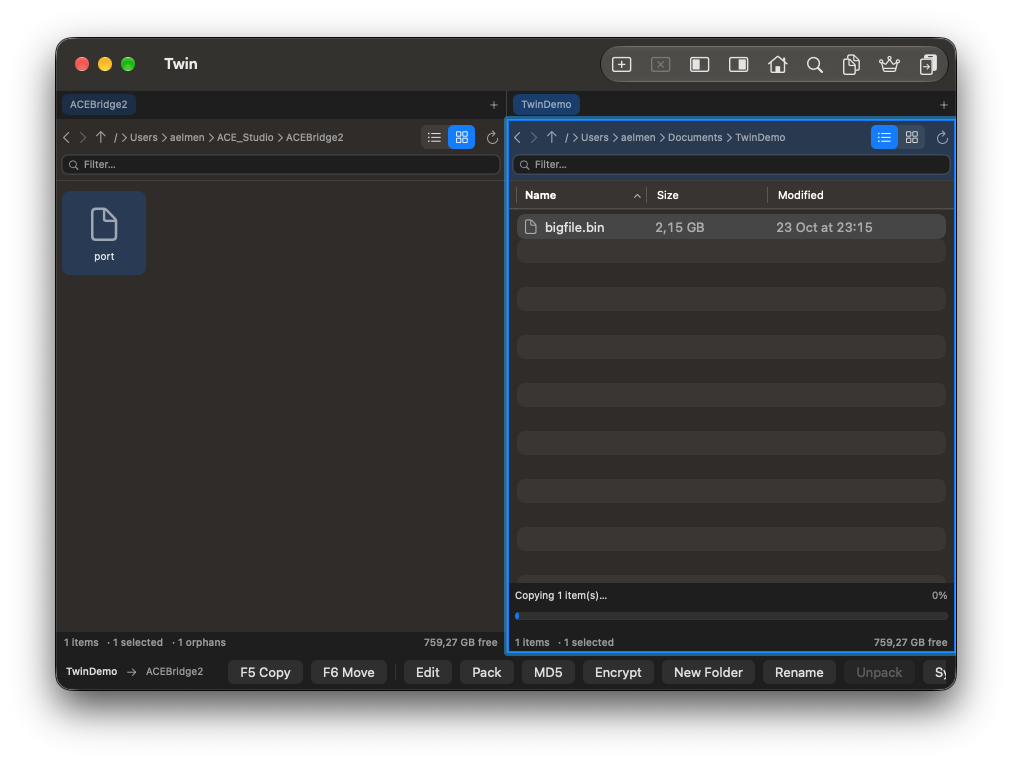
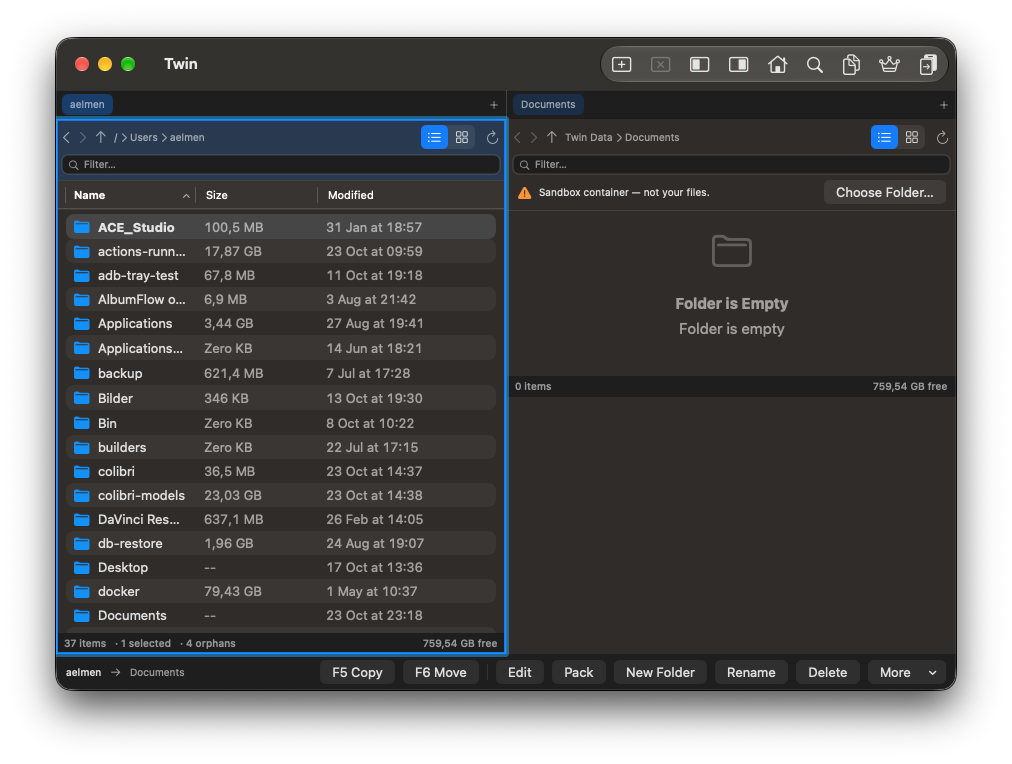
docs: LeadUX screenshot review (15 findings) + refreshed 02 capture
UX-Review.md gains the 2026-10-23 section reviewing the four real
captures against UX-Spec.md (4 P0, 7 P1, 4 P2, each with file/symbol).
02-copy-progress.png recaptured from the fixed build: real F5 keypress,
filename label, Cancel button, all folder sizes resolved.

diff --git a/Docs/UX-Review.md b/Docs/UX-Review.md
@@ -54,24 +54,195 @@ Table-vy med sorterbara kolumner, statusrad, sök-tomt-tillstånd, Cmd+F till
 filtret, konfliktrapport i stället för tyst överskrivning, starkare
 aktivmarkering och borttagen sökvägsredundans.
 
-## Skärmbild från användaren 2026-10-23 — nya fynd
+## Skärmbildsgranskning 2026-10-23 — fyra riktiga captures mot UX-Spec.md
 
-Användarens capture av körande app bekräftade och utökade granskningen:
+Underlag: `Docs/screenshots/01-dual-pane.png`, `02-copy-progress.png`,
+`03-icon-view.png`, `04-search.png`, jämförda rad för rad mot
+`Docs/UX-Spec.md` (aktiv panel = accentram + header, oberoende
+navigation/markering/view-mode per panel, drop-highlight, operation =
+etikett + procent + linjär progress i panelens fot, keyboard-first med
+F5/F6/Tab/Cmd+1/Cmd+2/Cmd+F). Tidigare kodfynd ovan står kvar; detta är
+det som syns — och inte syns — i körande app. Prioritet: P0 = fel fil/
+fel mål risk eller kärnflöde blockerat, P1 = daglig friktion, P2 = puts.
 
-- **Layoutkollaps (kritiskt, nu åtgärdat):** allt innehåll låg i ett band
-  i fönstrets mitt med stora tomma ytor över/under. Orsak:
-  `NavigationStack` inuti `HSplitView`. Borttaget; panelerna fyller nu
-  hela fönstret och mappnamnet läcker inte längre som fönstertitel ("Data").
-- **"View"-texten radbröts vertikalt** ("V/ie/w") i view-väljaren.
-  Åtgärdat med `labelsHidden`.
-- **"Try Again" på tom mapp** var meningslöst — visas nu bara vid fel.
-- **Textpiller i verktygsraden** ersatta med ikon+text (Label/systembilder).
-- Datumformatet förkortat.
-- Fortfarande öppet: appen startar i sandbox-containerns Data-mapp
-  (`~/Library/Containers/se.dvisious.twin/Data`) eftersom sandlådan pekar
-  hemkatalogen dit. För en filhanterare krävs en medveten startpunkt —
-  förslagsvis senaste bokmärkta mappen, annars en välj-mapp-uppmaning.
-  Spåras på #9.
+### P0 — åtgärda före nästa testrunda
+
+1. **Kopieringen går inte att avbryta och säger nästan ingenting
+   (02).** Panelens fot visar bara `Copying 1 item(s)… 0%` för en fil
+   på 2,15 GB: ingen filnamnsetikett, inga kopierade bytes/total,
+   ingen hastighet/ETA och — värst — ingen Cancel-knapp. Vid 0 %
+   går det inte att skilja "arbetar" från "har hängt sig".
+   Ändra: namnge filen (`Copying bigfile.bin — 340 MB of 2,15 GB ·
+   82 MB/s · ~20 s left`), lägg till en synlig Cancel-knapp som
+   avbryter pågående operation, och behåll linjär progress enligt
+   spec. Filer: `Sources/TwinApp/Features/DualPane/PaneView.swift`
+   (`progressBar`), `Sources/TwinApp/Features/DualPane/PaneViewModel.swift`
+   (`performFileOperation`, `operationProgress`/`operationLabel` —
+   byt från enbart `Double`-procent till bytes/hastighet + avbrytbar
+   `Task`), bakomliggande loop i TwinCore anropas därifrån.
+2. **Funktionsraden ryms inte — åtgärder försvinner utanför fönstret
+   (01, 02, 03, 04).** Vid fönstrets minimibredd klipps raden mitt i
+   `Sync` (`Sy…`/`S` i 02/04); Batch Rename, Workspaces, Permissions,
+   Assistant och Delete ligger dolda i en horisontell scroll utan
+   synlig scrollindikator eller "»"-affordance. En TC-användare ser
+   aldrig Delete. Ändra: låt raden krympa i fast prioritetsordning
+   (F5/F6/Edit/New Folder/Rename/Delete alltid synliga, övrigt under
+   en explicit `More`-meny), sluta scrolla tyst, och höj vid behov
+   minimibredden. Filer: `Sources/TwinApp/Features/DualPane/DualPaneView.swift`
+   (`functionBar`, `ScrollView(.horizontal)` tas bort),
+   `Sources/TwinApp/TwinApp.swift` (`minWidth: 900`).
+3. **Knapparna lovar F5/F6 men tangenterna gör ingenting (01–04).**
+   Specen medger själv att SwiftUI saknar F5/F6 och att Cmd+5/Cmd+6
+   är ersättningen — men knapptexten säger fortsatt `F5 Copy`/
+   `F6 Move`. För en keyboard-first-produkt vars förebild är Total
+   Commander är det ett brutet kärnlöfte: användaren trycker F5,
+   inget händer, förtroendet dör. Ändra: antingen riktig
+   AppKit-`keyDown`-hantering för F5/F6 (behåll då texterna), eller
+   byt texterna till `⌘5 Copy`/`⌘6 Move` överallt tills F-tangenterna
+   fungerar — aldrig text och genväg som motsäger varandra.
+   Filer: `Sources/TwinApp/Features/DualPane/DualPaneView.swift`
+   (`functionBar`, toolbar, `.keyboardShortcut("5"/"6")`),
+   `Sources/TwinApp/Features/DualPane/PaneView.swift` (befintliga
+   `onKeyPress`-hanterare är mönstret att bygga vidare på).
+4. **Markeringen syns inte — men F5/F6 verkar på den (01, 03).**
+   Statusraden påstår `1 selected`, men i 01 går den markerade raden
+   knappt att urskilja mot växelskuggningen, och i ikonvyn (03,
+   vänster panel) syns ingen markering alls trots att panelen är
+   aktiv med blå ram. Användaren kan kopiera/flytta fel fil utan att
+   kunna verifiera valet. Ändra: full accentfärgad markeringsbakgrund
+   + fetstil i listvyn, samma tydliga markering (ram + toning +
+   check vid flerval) i ikonvyn, och låt inaktiv panels markering
+   tonas ned så aktiv markering alltid vinner visuellt.
+   Filer: `Sources/TwinApp/Features/DualPane/PaneView.swift`
+   (`listView`-radbakgrund, `iconView`-cellernas
+   `selection.contains`-bakgrund 0.2 → tydligare behandling).
+
+### P1 — daglig friktion
+
+5. **Storlekskolumnen är död för mappar (01, 04).** Varje mapp visar
+   `...`/`--`; kolumnen går formellt att sortera på men sorterar på
+   värden användaren aldrig ser, och inför en kopiering går det inte
+   att bedöma datamängd. Ändra: visa beräknad mappstorlek när den är
+   klar (redan påbörjat via `directorySizes`), visa `—` endast för
+   skyddade mappar med hjälptext som förklarar varför, och sortera
+   osorterbara mappar sist i stället för på `size = 0`.
+   Filer: `Sources/TwinApp/Features/DualPane/PaneViewModel.swift`
+   (`directorySizeText`, `computeDirectorySizes`),
+   `Sources/TwinApp/Features/DualPane/PaneView.swift` (`listView`,
+   Size-kolumnen), `Sources/TwinApp/Shared/SizeFormatting.swift`.
+6. **Namn trunkeras till oigenkännlighet (01, 03, 04).** `Archive -
+   Ma…`, `REAPER Me…`, två `Applications…` som inte går att skilja
+   åt; ingen typ-/ändelsekolumn och ingen fullständig sökväg som
+   hjälptext i listan. Ändra: bredare Name-kolumn med mitten-trunkering
+   (`Archive - Ma…ster.zip`), lägg till Type/Ext-kolumn, och sätt
+   `.help(item.url.path)` på radtexten. I ikonvyn: tillåt 2 rader
+   konsekvent (finns) men lägg till filändelse för filer.
+   Filer: `Sources/TwinApp/Features/DualPane/PaneView.swift`
+   (`listView`, `iconView`), `Sources/TwinApp/Shared/FileItemIcon.swift`.
+7. **Filtret döljer sammanhanget (04).** `Code` ger 2 träffar, men
+   statusraden säger `2 items` som om mappen krympt — inget `2 of 22`,
+   ingen träffmarkering i namnen, och inget som säger att filtret bara
+   gäller aktuell mapp (inte rekursiv sök). Ändra: status `2 of 22
+   items · filter: "Code"`, fetmarkera träffsubstringen i raden, och
+   byt placeholder/toolbar-etikett till samma begrepp överallt
+   (i dag: "Filter…" i fältet, "Filter" i toolbaren, "Instant search"
+   i specen — välj ett ord). Filer:
+   `Sources/TwinApp/Features/Search/PaneSearch.swift`
+   (`PaneSearchField`, `filter`), `Sources/TwinApp/Features/DualPane/PaneView.swift`
+   (`statusBar` — räkna mot `viewModel.items.count`, inte bara
+   `filteredItems.count`), `Sources/TwinApp/Features/DualPane/PaneViewModel.swift`
+   (`filteredItems`).
+8. **Ikonvyn är en återvändsgränd för tangentbordsanvändare (03).**
+   Inga storlekar/datum, ingen synlig sortering, piltangentsnavigering
+   osynlig/oklar, enkelklick *togglar* markering (avviker från listvyns
+   och Finders ersätt-markering; dubbelklick riskerar att först
+   avmarkera), nedersta raden klipps mitt i ikonerna utan
+   scrollindikator, och alla objekt är samma blå mapp eller grå
+   dokumentikon — inga riktiga filikoner/miniatyrer. Ändra:
+   enkelklick = ersätt markering (Cmd-klick = toggla, som i listvyn),
+   synlig fokusring vid piltangenter, storlek/datum som caption under
+   namnet, riktiga `NSWorkspace`-ikoner/miniatyrer i stället för
+   SF-symboler. Filer: `Sources/TwinApp/Features/DualPane/PaneView.swift`
+   (`iconView`, `iconColumns`), `Sources/TwinApp/Shared/FileItemIcon.swift`
+   (enda ikonkomponenten — `folder.fill`/`doc` räcker inte).
+9. **Övre toolbar: åtta kryptiska ikoner utan etiketter (01–04).**
+   `+`, `⨯`, två panelikoner, hem, sök, kopiera, krona, urklipp —
+   gissningslek, och F5 Copy finns dessutom dubbelt (toolbar +
+   funktionsrad). Kronan (Pro-upsell) tar permanent plats i primära
+   verktygsraden. Ändra: behåll ikoner men ge dem textetikett under/
+   bredvid vid breda fönster (som specens wireframe antyder),
+   ta bort dubbleringen av F5/F6 (funktionsraden äger dem), och
+   flytta Pro till menyn/statusytan. Verifiera hjälptexter
+   (`.help` finns i kod men ersätter inte synliga etiketter för
+   förstagångsanvändare). Fil:
+   `Sources/TwinApp/Features/DualPane/DualPaneView.swift` (`toolbar`).
+10. **Tomma spökrader fyller listorna (02, 04).** Växelskuggade tomma
+    rader under sista filen ser ut som saknade/osynliga filer — i 02
+    sju tomma rader under `bigfile.bin`. Ändra: låt tabellen sluta vid
+    sista raden (fast radhöjd utan filler-rader) eller gör den nedre
+    ytan neutral utan radmönster. Fil:
+    `Sources/TwinApp/Features/DualPane/PaneView.swift` (`listView`,
+    `Table`-stilen).
+11. **Statusraden talar utvecklarspråk (01, 03, 04).** `· 1 orphans`
+    (även grammatiskt fel: "1 orphans") utan förklaring i vyn,
+    `759,27 GB free` duplicerat identiskt i båda panelerna trots
+    samma volym, och ingen total storlek för markeringen — det
+    enda tal som betyder något före F5. Ändra: `1 selected · 2,15 GB`,
+    visa volyminfo en gång per volym (dölj i panel 2 om samma volym),
+    och ersätt `orphans` med begriplig text + klickbar väg till
+    Assistant, eller ta bort det från statusraden helt.
+    Filer: `Sources/TwinApp/Features/DualPane/PaneView.swift`
+    (`statusBar`, `freeSpaceText`),
+    `Sources/TwinApp/Features/DualPane/PaneViewModel.swift`
+    (`insights`, markeringens storlekssumma saknas).
+
+### P2 — puts och konsekvens
+
+12. **Blandad lokalisering (01–04).** Engelsk UI-text men svenskt
+    decimaltecken (`759,27 GB`), engelska månadsförkortningar
+    (`31 Jan at 18:57`). Välj en locale konsekvent för tal- och
+    datumformat. Filer: `Sources/TwinApp/Shared/SizeFormatting.swift`
+    (`ByteCountFormatter`), `Sources/TwinApp/Features/DualPane/PaneView.swift`
+    (Modified-kolumnens `.dateTime`-format).
+13. **Rot-brödsmulan är ett ensamt `/` (01, 03, 04)** och djupa
+    sökvägar scrollar horisontellt utan indikator; fliktiteln
+    duplicerar dessutom sista brödsmulan (`aelmen`/`Documents`
+    två gånger i varje panel). Ändra: namnge roten (`Macintosh HD`
+    eller hemkatalogens namn), och låt fliken visa mappnamn +
+    full sökväg som hjälptext — eller slopa dupliceringen.
+    Filer: `Sources/TwinApp/Shared/BreadcrumbBar.swift`,
+    `Sources/TwinApp/Features/DualPane/PaneViewModel.swift`
+    (`breadcrumbs`, rot-crumben `Breadcrumb(name: "/")`),
+    `Sources/TwinApp/Features/DualPane/DualPaneView.swift` (`tabStrip`).
+14. **Filterfältet äter permanent höjd i båda panelerna (01–04)**
+    trots att wireframen i specen inte har det framme; det är 6–8 %
+    av fönsterhöjden per panel för något som används ibland.
+    Ändra: kollapsa till en sökikon i panelhuvudet som expanderar
+    vid Cmd+F (genvägen finns redan), eller behåll fältet men bara
+    i aktiva panelen. Filer:
+    `Sources/TwinApp/Features/DualPane/PaneView.swift` (`header`),
+    `Sources/TwinApp/Features/Search/PaneSearch.swift`.
+15. **`item(s)`-språk och generiska operationstexter (02).**
+    `Copying 1 item(s)…` är utvecklarprosa; skriv `Copying
+    bigfile.bin…` / `Copying 3 files…`. Samma mönster i raderings-
+    och Trash-texterna. Filer:
+    `Sources/TwinApp/Features/DualPane/PaneViewModel.swift`
+    (`operationLabel` i `performFileOperation`),
+    `Sources/TwinApp/Features/DualPane/DualPaneView.swift`
+    (Trash-alertens `item(s)`-text).
+
+### Vad som nu stämmer mot specen — rör inte
+
+- Aktiv panel är omisskännlig: 2 px accentram + tonat huvud i alla
+  fyra bilderna, och rätt panel är aktiv i varje scenario (01/04
+  vänster, 02 höger). Specens viktigaste regel håller.
+- Per-panel-oberoende fungerar synligt: list/ikon blandat i 02/03,
+  filter i bara höger panel i 04, oberoende markering och tabs.
+- Progress sitter i panelens fot med etikett + procent + linjär
+  indikator exakt som specificerat (innehållet i den är P0-1 ovan,
+  inte placeringen).
+- Funktionsraden med `aktiv mapp → målmapp` längst ned är rätt
+  TC-signal — problemet är bara att den inte får plats (P0-2).
 
 ## Andra skärmbilden — seniorfynd (nu åtgärdade)
 
